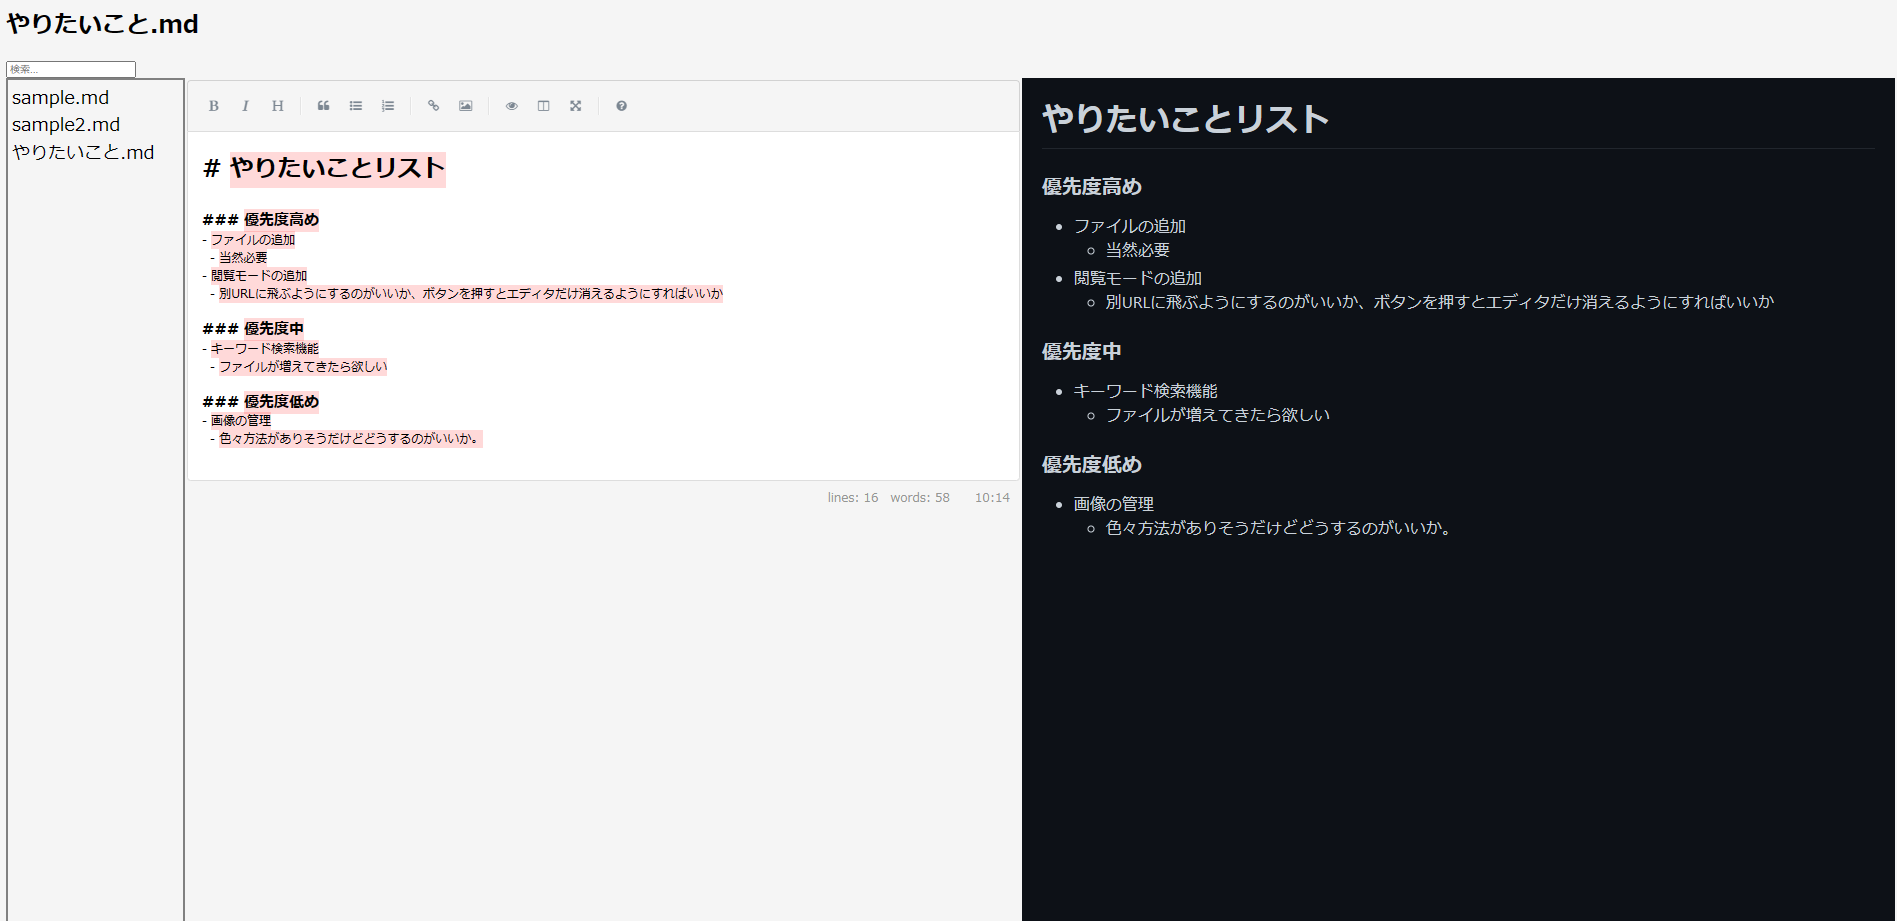
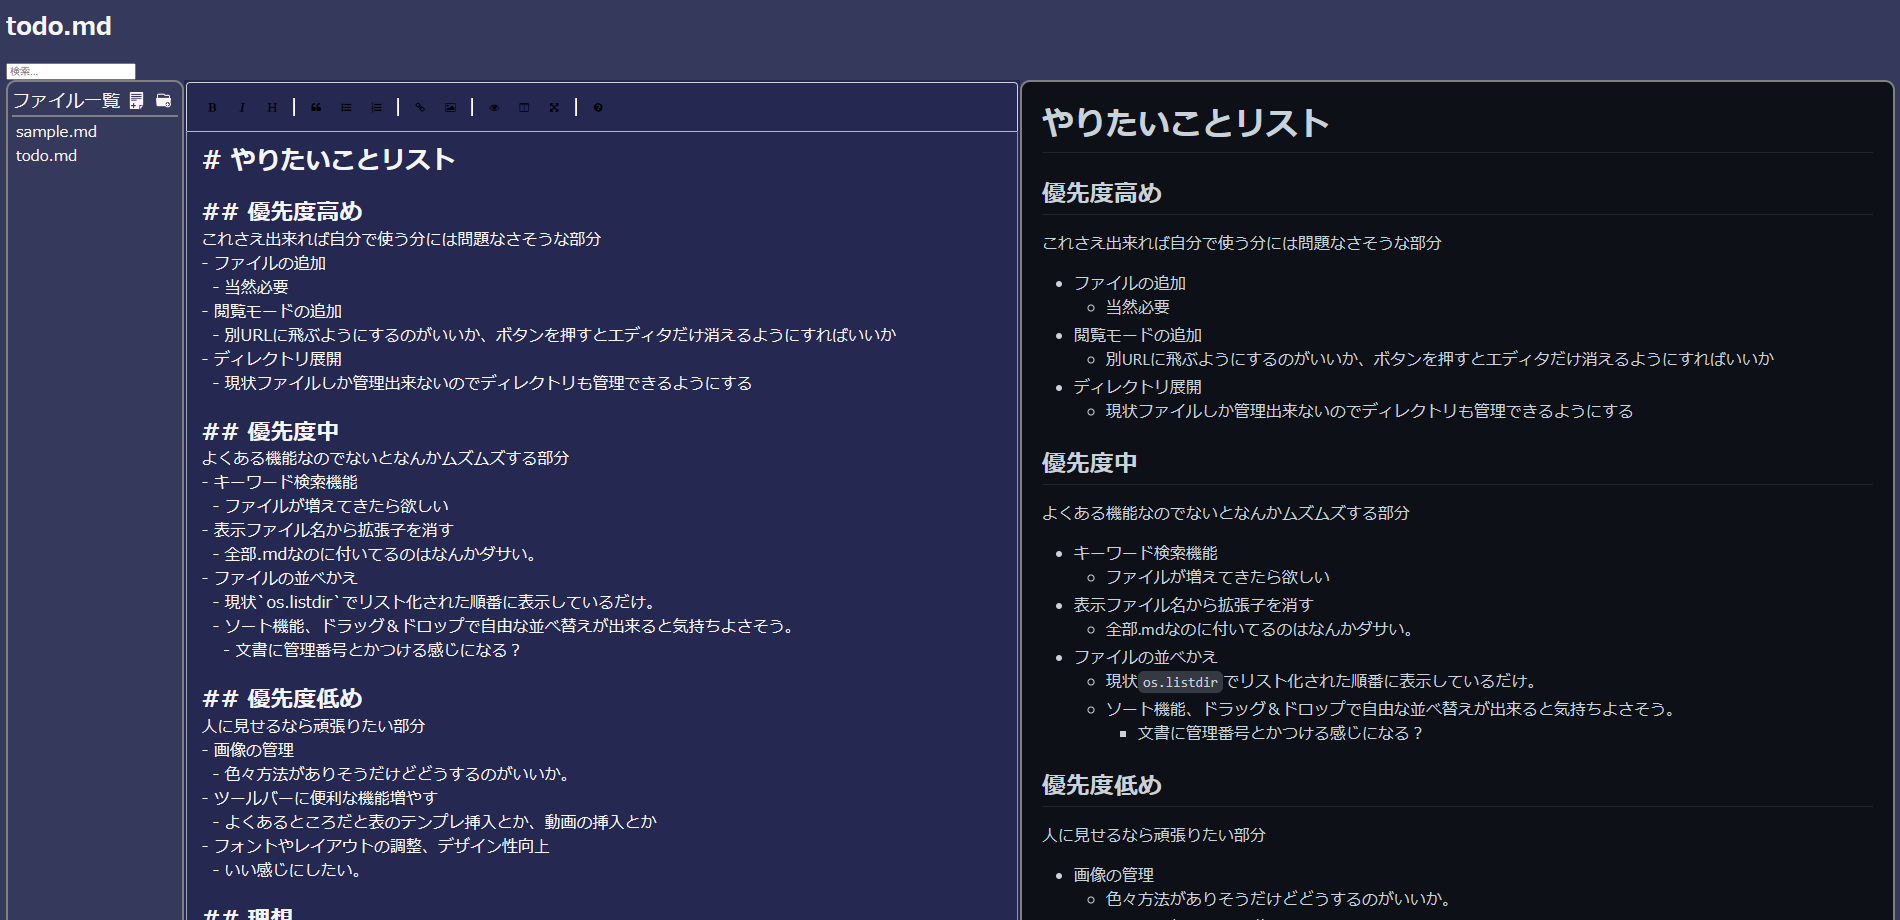
add function which adds file and directory. change page design. change SimpleMDE to EasyMDE.

diff --git a/static/css/styles.css b/static/css/styles.css
@@ -1,28 +1,46 @@
+:root {
+  --font-color: #f5f5f5;
+  --background-color: #35395c;
+  --editor-background-color: #252952;
+  --line-color: #808080;
+}
+
 body {
-  background-color: #f5f5f5; /* ここに好きな色のコードを入れる */
+  background-color: var(--background-color); /* ここに好きな色のコードを入れる */
 }
 
 header {
-  background-color: #f5f5f5; /* ここに好きな色のコードを入れる */
+  background-color: var(--background-color); /* ここに好きな色のコードを入れる */
+  color: var(--font-color);
 }
 
 .main {
   display: flex;
-  background-color: #f5f5f5; /* 背景色を設定（オプション） */
+  background-color: var(--background-color); /* 背景色を設定（オプション） */
+}
+
+.sidebar {
+  font-size: 18px;
+  color: var(--font-color);
+  flex: 0.6;  /* この値を変更することで、サイドバーの幅を調整できます */
+  background-color: var(--background-color); /* 背景色を設定（オプション） */
+  /* overflow-y: auto;  縦スクロールを許可 */
+  border: 2px solid var(--line-color);
+  border-radius: 10px;
+  padding: 4px;  /* 内部のスペースを設定 */
 }
 
 #sidebar {
-  font-size: 18px;
+  font-size: 15px;
   flex: 0.6;  /* この値を変更することで、サイドバーの幅を調整できます */
-  background-color: #f5f5f5; /* 背景色を設定（オプション） */
+  background-color: var(--background-color); /* 背景色を設定（オプション） */
   overflow-y: auto;  /* 縦スクロールを許可 */
-  border-right: 2px solid #808080; /* 右側の境界線（オプション） */
-  border-left: 2px solid #808080; /* 左側の境界線（オプション） */
-  border-top: 2px solid #808080; /* 上側の境界線（オプション） */
+  border-top: 2px solid var(--line-color); /* 上側の境界線（オプション） */
   padding: 4px;  /* 内部のスペースを設定 */
 }
 
 .editor {
+  background-color: var(--editor-background-color);
   flex: 3;  /* この値を変更することで、エディターの幅を調整できます */
   padding: 2px;  /* 内部のスペースを設定 */
 }
@@ -36,6 +54,8 @@ header {
   background-color: #0d1117;
   flex: 3;  /* この値を変更することで、プレビューの幅を調整できます */
   padding: 20px;  /* 内部のスペースを設定 */
+  border: 2px solid var(--line-color);
+  border-radius: 10px;
 }
 
 #preview {
@@ -59,6 +79,27 @@ header {
   margin-left: 8px;
 }
 
+#create-file-icon {
+  cursor: pointer;
+  border: 2px solid transparent;
+  /* margin-top: 10px;  マージンを追加 */
+  /* vertical-align: middle;  top, bottom, text-top, text-bottomなども選択可能 */
+  transform: translateY(4px);
+}
+#create-file-icon:hover {
+  border: 2px solid var(--line-color);
+}
+
+#create-dir-icon {
+  cursor: pointer;
+  border: 2px solid transparent;
+  /* margin-top: 10px;  マージンを追加 */
+  /* vertical-align: middle;  top, bottom, text-top, text-bottomなども選択可能 */
+  transform: translateY(4px);
+}
+#create-dir-icon:hover {
+  border: 2px solid var(--line-color);
+}
 .dropdown-menu {
   font-size: 12px;
   padding: 1px;

diff --git a/templates/index.html b/templates/index.html
@@ -2,13 +2,17 @@
 <html>
 <head>
   <title>マークダウン管理システム</title>
-  <link rel="stylesheet" href="https://cdnjs.cloudflare.com/ajax/libs/simplemde/1.11.2/simplemde.min.css">
-  <link rel="stylesheet" href="{{ url_for('static', filename='css/markdown_preview.css') }}">
+  <!-- <link rel="stylesheet" href="https://cdnjs.cloudflare.com/ajax/libs/simplemde/1.11.2/simplemde.min.css"> -->
+  <link rel="stylesheet" href="https://unpkg.com/easymde/dist/easymde.min.css">
   <link rel="stylesheet" href="{{ url_for('static', filename='css/styles.css') }}">
+  <link rel="stylesheet" href="{{ url_for('static', filename='css/editor_custom_styles.css') }}">
+  <link rel="stylesheet" href="{{ url_for('static', filename='css/markdown_preview.css') }}">
   
   <script src="https://code.jquery.com/jquery-3.6.0.min.js"></script>  
   <script src="https://cdnjs.cloudflare.com/ajax/libs/marked/0.3.5/marked.min.js"></script>
-  <script src="https://cdnjs.cloudflare.com/ajax/libs/simplemde/1.11.2/simplemde.min.js"></script>
+  <script src="https://unpkg.com/easymde/dist/easymde.min.js"></script>
+  <!-- <script src="https://cdnjs.cloudflare.com/ajax/libs/simplemde/1.11.2/simplemde.min.js"></script> -->
+
 </head>
 
 <body>
@@ -18,7 +22,12 @@
   </header>
 
   <div class="main">
-    <div id="sidebar"></div>
+    <div class="sidebar">
+      ファイル一覧
+      <img id="create-file-icon" src="{{ url_for('static', filename='images/add_file.png') }}" alt="Create new file" width="10%">
+      <img id="create-dir-icon" src="{{ url_for('static', filename='images/add_folder.png') }}" alt="Create new directory" width="10%">
+      <div id="sidebar"></div>
+    </div>
     <div class="editor">
       <textarea id="editor"></textarea>
     </div>

diff --git a/static/js/process_markdown.js b/static/js/process_markdown.js
@@ -1,5 +1,5 @@
 // SimpleMDEを初期化
-var simplemde = new SimpleMDE({ element: document.getElementById("editor") });
+var simplemde = new EasyMDE({ element: document.getElementById("editor") });
 // 現在開いているファイル名を格納する変数
 var currentFile = "";
 // 初期内容を保存
@@ -103,9 +103,30 @@ function updateFileList() {
         });
     });
 };
-// ページロード時updateFileListを実行
+
+// ページロード時の動作
 $(document).ready(function(){
     updateFileList()
+
+    $('#create-file-icon').click(function() {
+        var newFileName = prompt("新しいファイル名を入力してください:");
+        if (newFileName) {
+            $.post('/create_file', {filename: newFileName}, function(data){
+                alert(data);
+                updateFileList();
+            });
+        }
+    });
+
+    $('#create-dir-icon').click(function() {
+        var newDirectoryName = prompt("新しいディレクトリ名を入力してください:");
+        if (newDirectoryName) {
+            $.post('/create_directory', {dir_name: newDirectoryName}, function(data){
+                alert(data);
+                updateFileList();
+            });
+        }
+    });
 });
 
 // ドロップダウンメニュー外をクリックしたときにメニューを閉じる

diff --git a/static/css/editor_custom_styles.css b/static/css/editor_custom_styles.css
@@ -1,0 +1,47 @@
+:root {
+    /* --font-color: #f5f5f5; */
+    --background-color: #35395c;
+    --editor-background-color: #252952;
+    --line-color: #808080;
+  }
+
+/* エディタの基本設定の変更 */
+.CodeMirror {
+    font-size: 16px !important;
+    background: var(--editor-background-color);
+    color: var(--font-color);
+}
+
+.CodeMirror-cursor {
+border-left: 2px solid #dbd9f7;  /* 赤色に設定していますが、お好みの色に変更してください */
+}
+
+/* スペルチェック機能を除去（日本語が全てハイライトされてしまうため） */
+.cm-spell-error {
+    background: none !important;
+}
+
+/* 見出しサイズ調整 */
+.cm-s-easymde .cm-header-1 {
+    font-size: 25px !important;
+}
+.cm-s-easymde .cm-header-2 {
+    font-size: 23px !important;
+}
+.cm-s-easymde .cm-header-3 {
+    font-size: 21px !important;
+}
+.cm-s-easymde .cm-header-4 {
+    font-size: 19px !important;
+}
+.cm-s-easymde .cm-header-5 {
+    font-size: 17px !important;
+}
+.cm-s-easymde .cm-header-6 {
+    font-size: 15px !important;
+}
+
+/* アイコンの色を変更 */
+.editor-toolbar a::before {
+    color: red;
+}

diff --git a/app.py b/app.py
@@ -35,6 +35,30 @@ def save_file():
     
     return ret
 
+@app.route('/create_file', methods=['POST'])
+def create_file():
+    base_dir = './works'
+    filename = request.form.get('filename')
+    if not filename.endswith(".md"):
+        filename += ".md"
+    filepath = os.path.join(base_dir, filename)
+    if not os.path.exists(filepath):
+        with open(filepath, 'w'): pass
+        return "File made successfully", 200
+    else:
+        return f"!! `{filename}` has already existed. !!", 400
+
+@app.route('/create_directory', methods=['POST'])
+def create_directory():
+    base_dir = './works'
+    dir_name = request.form.get('dir_name')
+    dirpath = os.path.join(base_dir, dir_name)
+    if not os.path.exists(dirpath):
+        os.mkdir(dirpath)
+        return "Directoey made successfully", 200
+    else:
+        return f"!! `{dir_name}` has already existed. !!", 400
+
 @app.route('/rename_file', methods=['POST'])
 def rename_file():
     base_dir = './works'

diff --git a/README.md b/README.md
@@ -30,4 +30,5 @@ python app.py
  * Running on http://<ip adress>:8000
 ```
 等と表示されます。  
-この`http://<ip adress>:8000`をブラウザに入れることで閲覧できます。
+この`http://<ip adress>:8000`をブラウザに入れることで閲覧できます。  
+VSCodeのターミナルで実行するとポップアップでブラウザから開くか聞いてくれてびっくりします。どの拡張機能のおかげかわかってない……。
